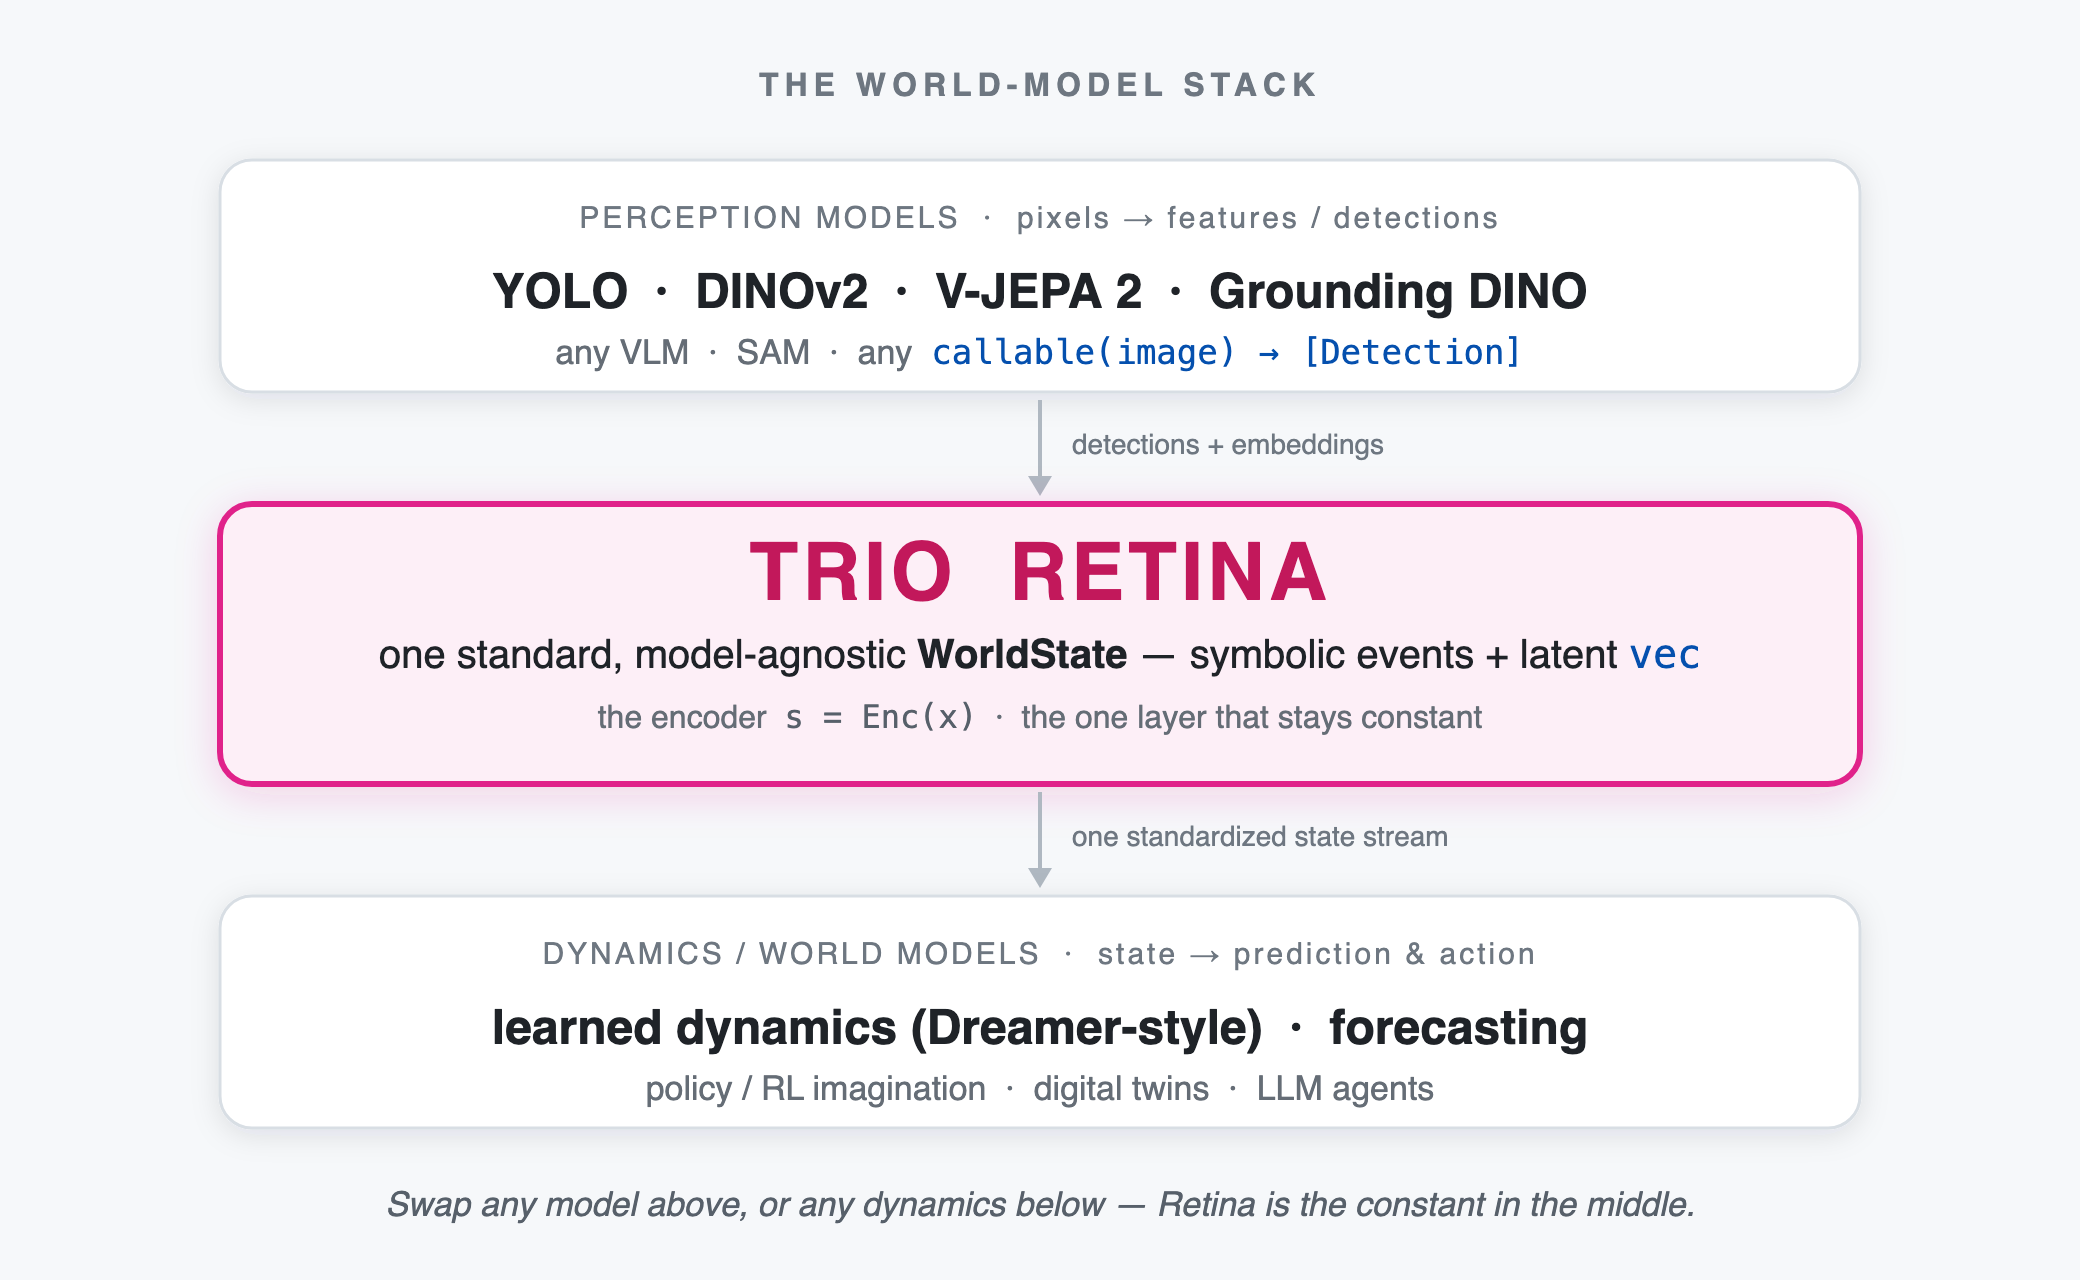
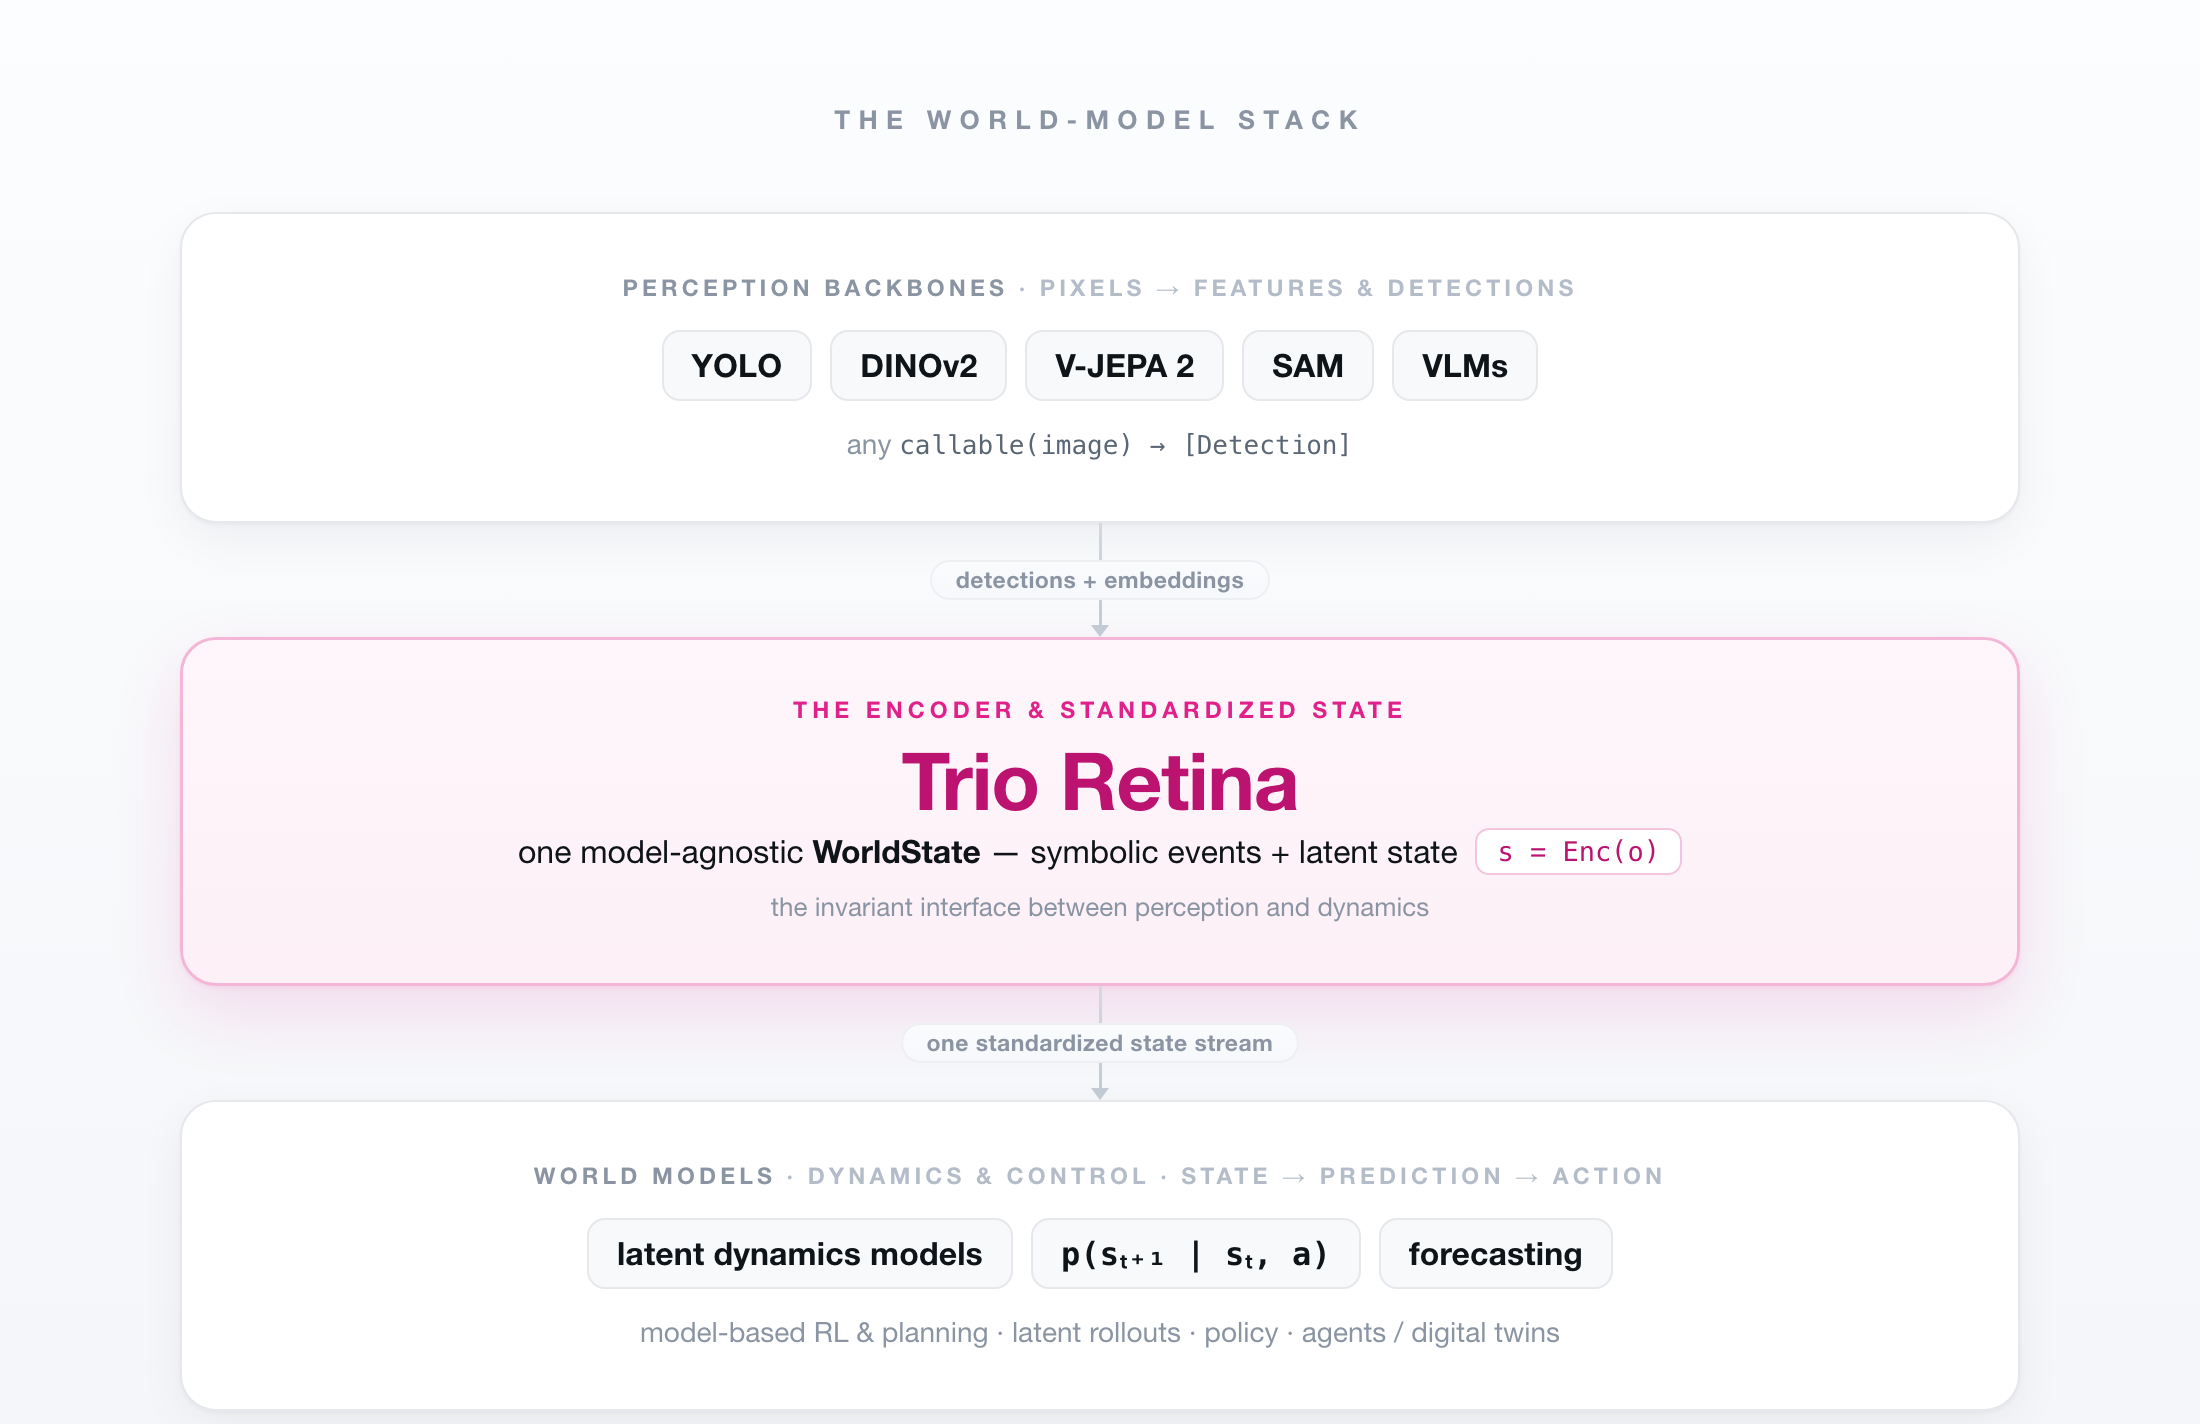
Redesign world-model stack diagram + scrub Dreamer jargon
Replace the amateurish stack.png with a polished, light-theme
architecture diagram built in HTML/CSS and rendered at 2x. Three
refined tiers (perception backbones -> Trio Retina hero -> world
models / dynamics & control) with model chips, mono code tokens,
soft layered shadows, hairline borders, and labeled connector flows.
The middle Retina tier is the single magenta-tinted accent.

Map tiers to canonical world-model terms (perception -> encoder/state
-> dynamics -> control). Commit the HTML source; drop the old SVG.

Scrub reader-facing "Dreamer-style" branding from README roadmap
("model-based RL / latent-rollout imagination") and refresh the
diagram alt-text in README + docs to match the new tiers. Benchmark
numbers and technical content untouched.

diff --git a/media/stack.html b/media/stack.html
@@ -1,0 +1,171 @@
+<!doctype html>
+<html lang="en">
+<head>
+<meta charset="utf-8">
+<style>
+  :root{
+    --ink:#0f1419;
+    --ink-2:#3d4754;
+    --muted:#8a94a3;
+    --hair:#e6e8eb;
+    --bg-1:#fcfdfe;
+    --bg-2:#f4f6f9;
+    --mag:#e0218a;
+    --mag-deep:#bd1370;
+    --mag-tint:#fdf0f7;
+    --mono:#5b6675;
+  }
+  *{box-sizing:border-box;margin:0;padding:0}
+  html,body{font-family:-apple-system,"Inter","Helvetica Neue",Arial,sans-serif;-webkit-font-smoothing:antialiased;text-rendering:optimizeLegibility;}
+  .canvas{
+    width:1100px;height:712px;
+    background:linear-gradient(180deg,var(--bg-1) 0%,var(--bg-2) 100%);
+    padding:52px 90px 46px;
+    display:flex;flex-direction:column;
+    position:relative;
+  }
+  .eyebrow{
+    text-align:center;
+    font-size:13px;font-weight:700;letter-spacing:.32em;
+    color:var(--muted);
+    text-transform:uppercase;
+    margin-bottom:38px;
+  }
+
+  .card{
+    background:#fff;
+    border:1px solid var(--hair);
+    border-radius:18px;
+    box-shadow:0 1px 2px rgba(16,24,40,.04),0 8px 24px rgba(16,24,40,.05);
+    padding:30px 34px;
+    text-align:center;
+  }
+  .tier-label{
+    font-size:11.5px;font-weight:700;letter-spacing:.18em;text-transform:uppercase;
+    color:var(--muted);
+    margin-bottom:14px;
+  }
+  .tier-label .sub{color:#b3bcc8;font-weight:600;}
+
+  .chips{display:flex;justify-content:center;gap:9px;flex-wrap:wrap;margin-bottom:13px;}
+  .chip{
+    font-size:16px;font-weight:600;color:var(--ink);
+    background:#f7f9fb;border:1px solid var(--hair);
+    border-radius:9px;padding:7px 14px;
+    letter-spacing:.005em;
+  }
+  .secondary{
+    font-size:14px;color:var(--muted);
+  }
+  .mono{font-family:ui-monospace,"SF Mono",Menlo,monospace;}
+  .secondary .mono{color:var(--mono);font-size:13px;}
+
+  /* hero */
+  .hero{
+    background:linear-gradient(180deg,#fef6fb 0%,var(--mag-tint) 100%);
+    border:1.5px solid #f3b6d6;
+    box-shadow:0 1px 2px rgba(224,33,138,.08),0 14px 34px rgba(224,33,138,.13);
+    padding:28px 34px 30px;
+  }
+  .hero-label{
+    font-size:11.5px;font-weight:700;letter-spacing:.22em;text-transform:uppercase;
+    color:var(--mag);margin-bottom:8px;
+  }
+  .hero-title{
+    font-size:40px;font-weight:800;letter-spacing:-.015em;color:var(--mag-deep);
+    margin-bottom:6px;line-height:1;
+  }
+  .hero-sub{font-size:15.5px;color:var(--ink-2);font-weight:600;margin-bottom:13px;letter-spacing:.005em;}
+  .hero-state{
+    font-size:16px;color:var(--ink);margin-bottom:10px;
+  }
+  .hero-state b{font-weight:700;}
+  .hero-enc{
+    font-family:ui-monospace,"SF Mono",Menlo,monospace;
+    font-size:13.5px;color:var(--mag-deep);
+    background:#fff;border:1px solid #f3c4dd;border-radius:7px;
+    padding:3px 10px;position:relative;top:-1px;
+  }
+  .hero-foot{font-size:13px;color:var(--muted);font-style:normal;}
+
+  /* connector */
+  .flow{
+    display:flex;flex-direction:column;align-items:center;
+    position:relative;
+  }
+  .flow-label{
+    font-size:11.5px;color:var(--muted);font-weight:600;letter-spacing:.02em;
+    background:linear-gradient(180deg,#fafbfd,#f6f8fb);
+    padding:2px 12px;border-radius:20px;border:1px solid #edf0f3;
+    margin:0;position:absolute;top:50%;transform:translateY(-50%);
+    white-space:nowrap;
+  }
+  .flow-line{
+    width:1.5px;height:52px;
+    background:linear-gradient(180deg,#d4d9e0,#c2cad4);
+  }
+  .arrow{
+    width:0;height:0;
+    border-left:4.5px solid transparent;border-right:4.5px solid transparent;
+    border-top:6px solid #c2cad4;margin-top:-1px;
+  }
+
+  .tagline{
+    text-align:center;font-size:14px;color:var(--muted);font-style:italic;
+    margin-top:38px;
+  }
+  .tagline b{font-style:normal;font-weight:600;color:var(--ink-2);}
+</style>
+</head>
+<body>
+<div class="canvas">
+  <div class="eyebrow">The World-Model Stack</div>
+
+  <!-- TOP -->
+  <div class="card">
+    <div class="tier-label">Perception Backbones <span class="sub">· pixels → features &amp; detections</span></div>
+    <div class="chips">
+      <span class="chip">YOLO</span>
+      <span class="chip">DINOv2</span>
+      <span class="chip">V-JEPA 2</span>
+      <span class="chip">SAM</span>
+      <span class="chip">VLMs</span>
+    </div>
+    <div class="secondary">any <span class="mono">callable(image) → [Detection]</span></div>
+  </div>
+
+  <div class="flow">
+    <span class="flow-label">detections + embeddings</span>
+    <div class="flow-line"></div>
+    <div class="arrow"></div>
+  </div>
+
+  <!-- HERO -->
+  <div class="card hero">
+    <div class="hero-label">The Encoder &amp; Standardized State</div>
+    <div class="hero-title">Trio Retina</div>
+    <div class="hero-state">one model-agnostic <b>WorldState</b> — symbolic events + latent state &nbsp;<span class="hero-enc">s = Enc(o)</span></div>
+    <div class="hero-foot">the invariant interface between perception and dynamics</div>
+  </div>
+
+  <div class="flow">
+    <span class="flow-label">one standardized state stream</span>
+    <div class="flow-line"></div>
+    <div class="arrow"></div>
+  </div>
+
+  <!-- BOTTOM -->
+  <div class="card">
+    <div class="tier-label">World Models <span class="sub">· dynamics &amp; control · state → prediction → action</span></div>
+    <div class="chips">
+      <span class="chip">latent dynamics models</span>
+      <span class="chip mono">p(sₜ₊₁ | sₜ, a)</span>
+      <span class="chip">forecasting</span>
+    </div>
+    <div class="secondary">model-based RL &amp; planning · latent rollouts · policy · agents / digital twins</div>
+  </div>
+
+  <div class="tagline">Swap any encoder above or any dynamics model below — <b>Retina is the invariant state in the middle.</b></div>
+</div>
+</body>
+</html>

diff --git a/README.md b/README.md
@@ -2,7 +2,7 @@
 
 # Trio Retina
 
-<img src="https://raw.githubusercontent.com/machinefi/trio-retina/main/media/stack.png" width="840" alt="The world-model stack: any perception model — YOLO, DINOv2, V-JEPA 2 — feeds Trio Retina's one standard WorldState, which any dynamics / world model builds on top of">
+<img src="https://raw.githubusercontent.com/machinefi/trio-retina/main/media/stack.png" width="840" alt="The world-model stack: perception backbones (YOLO, DINOv2, V-JEPA 2, SAM, VLMs) feed Trio Retina — the encoder and standardized WorldState — which world models for dynamics and control build on top of">
 
 **The state layer of the world-model stack** — bring any perception model on top, get one standard, model-agnostic `WorldState`, build any dynamics underneath. Swap the model or the dynamics; **Retina is the constant in the middle.**
 
@@ -333,7 +333,7 @@ Full rationale, references, and the world-model stack: [`DESIGN.md`](DESIGN.md).
 
 Early but real (`v0.2.1`). Stable: the event layer + JSON Schema/validator, the composable pipeline (`|` / list / JSON), YOLO + open-vocab + VLM detectors (plus `from_supervision` interop), IoU + Norfair trackers, and jitter-robust rules (`exit_grace_s` · `anchor` · `min_frames`).
 
-Next: ByteTrack / OC-SORT · `proximity` / `anomaly` events · VLM-as-event-source · Kafka / MQTT sinks · **more encoders** behind the latent channel · **RL / imagination-training** on the learned state (Dreamer-style) · growing the [front/back-end benchmark](BENCHMARK.md). See [`CHANGELOG.md`](CHANGELOG.md).
+Next: ByteTrack / OC-SORT · `proximity` / `anomaly` events · VLM-as-event-source · Kafka / MQTT sinks · **more encoders** behind the latent channel · **model-based RL / latent-rollout imagination** on the learned state · growing the [front/back-end benchmark](BENCHMARK.md). See [`CHANGELOG.md`](CHANGELOG.md).
 
 Retina is the open **perception encoder** extracted from [Trio](https://machinefi.com); the layers above (dynamics, policy / judgment) are Trio's commercial platform. Retina is, and stays, model-agnostic and free.
 

diff --git a/docs/index.md b/docs/index.md
@@ -93,7 +93,7 @@ Retina is the **encoder** (`s = Enc(x)`) of a world model. The whole front-to-ba
 seam is demonstrable end to end — on a synthetic scene, as a small, honest proof of
 concept ([`examples/world_model/`](https://github.com/machinefi/trio-retina/tree/main/examples/world_model)):
 
-![The world-model stack: any perception model feeds Trio Retina's one standard WorldState, which any dynamics / world model builds on](https://raw.githubusercontent.com/machinefi/trio-retina/main/media/stack.png)
+![The world-model stack: perception backbones (YOLO, DINOv2, V-JEPA 2, SAM, VLMs) feed Trio Retina — the encoder and standardized WorldState — which world models for dynamics and control build on](https://raw.githubusercontent.com/machinefi/trio-retina/main/media/stack.png)
 
 *Any perception model on top, any dynamics model underneath, meeting on one standard `WorldState` — Retina is the constant in the middle.*
 